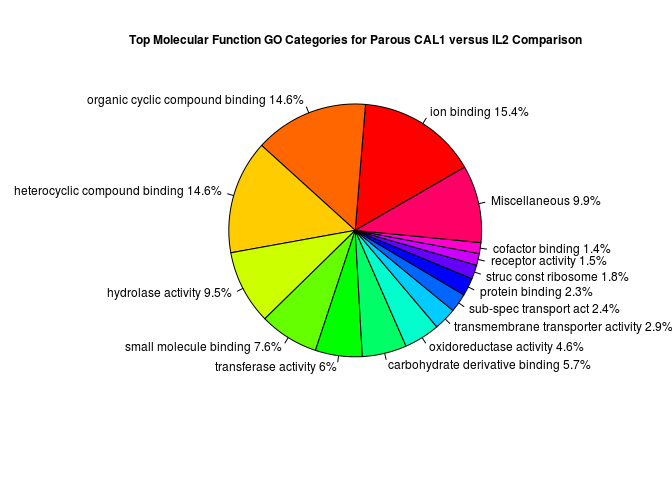
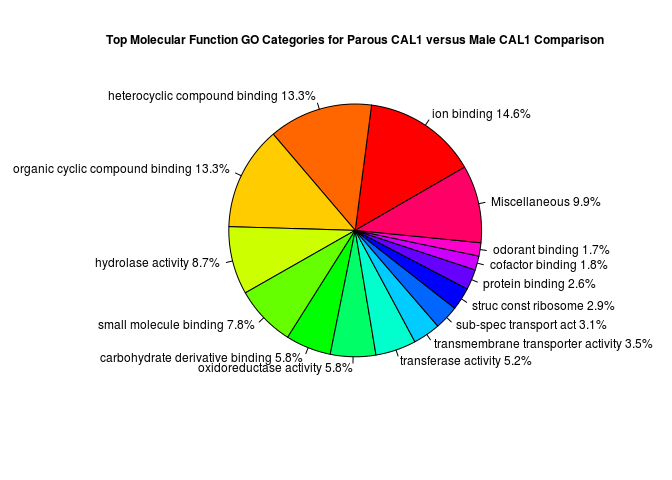
added parous_only GO analysis for comparison

diff --git a/Culex_GO_Figs_09072018.md b/Culex_GO_Figs_09072018.md
@@ -12,14 +12,15 @@ Plots for Gene Ontology Classification.
 setwd("~/Desktop/CulexRNAseq")
 
 #Getting the top 14 MF categories
+Parous_only <- read.table("./data/GO_analysis_parous_all/parous_all_GO_Dist_Level3_first3cols_MF.txt", sep = "\t", header = T)
 DGC_MF_grVpa <- read.table("./data/GO_level3Dist_data_analysis_09102018/gravidVparous/gravidVparous_GODist_level3_first3colsMF.txt", sep = "\t", header = T)
 DGC_MF_paVma <- read.table("./data/GO_level3Dist_data_analysis_09102018/parousVmales/parousVmales_GODist_level3_first3cols_MF.txt", sep = "\t", header = T)
 DGC_MF_paVpip <- read.table("./data/GO_level3Dist_data_analysis_09102018/parousVpipiens/parousVpipiens_GODist_level3_first3cols_MF.txt", sep = "\t", header = T)
 DGC_MF_grVpip <- read.table("./data/GO_level3Dist_data_analysis_09102018/gravidVpipiens/gravidVpipiens_GODist_level3_first3cols_MF.txt", sep = "\t", header = T)
 
-top_14_MF <- list(DGC_MF_grVpa[c(1:14),3], DGC_MF_paVma[c(1:14),3], DGC_MF_paVpip[c(1:14),3], DGC_MF_grVpip[c(1:14),3])
+top_14_MF <- list(Parous_only[c(1:14),3],DGC_MF_grVpa[c(1:14),3], DGC_MF_paVma[c(1:14),3], DGC_MF_paVpip[c(1:14),3], DGC_MF_grVpip[c(1:14),3])
 
-tot_data_MF <- list(DGC_MF_grVpa[c(1:nrow(DGC_MF_grVpa)),3], DGC_MF_paVma[c(1:nrow(DGC_MF_paVma)),3], DGC_MF_paVpip[c(1:nrow(DGC_MF_paVpip)),3], DGC_MF_grVpip[c(1:nrow(DGC_MF_grVpip)),3])
+tot_data_MF <- list(Parous_only[c(1:nrow(Parous_only)),3],DGC_MF_grVpa[c(1:nrow(DGC_MF_grVpa)),3], DGC_MF_paVma[c(1:nrow(DGC_MF_paVma)),3], DGC_MF_paVpip[c(1:nrow(DGC_MF_paVpip)),3], DGC_MF_grVpip[c(1:nrow(DGC_MF_grVpip)),3])
 
 
 #Getting the top 14 BP categories
@@ -51,7 +52,7 @@ tot_MF <- lapply(tot_data_MF, sum)
 inv_misc_cat_MF <- lapply(top_14_MF, sum)
 misc_cat_MF <- (unlist(tot_MF)) - (unlist(inv_misc_cat_MF))
 
-data2_MF <- as.data.frame(top_14_MF, col.names = c("DGC_MF_grVpa", "DGC_MF_paVma", "DGC_MF_paVpip", "DGC_MF_grVpip"))
+data2_MF <- as.data.frame(top_14_MF, col.names = c("Parous_only","DGC_MF_grVpa", "DGC_MF_paVma", "DGC_MF_paVpip", "DGC_MF_grVpip"))
 
 Updata_MF <- rbind(data2_MF, misc_cat_MF)
 
@@ -102,6 +103,18 @@ Rounded_Percentages_CC <- round(Percentages_CC, 1)
 ###### "substrate-specific transporter activity" = "sub-spec transport act"
 
 ``` r
+lbls <- c(as.character(Parous_only[c(1:14),2]), "Miscellaneous")
+lbls <- gsub("structural constituent of ribosome", "struc const ribosome", lbls)
+lbls <- gsub("guanyl-nucleotide exchange factor", "guan-nuc ex factor", lbls)
+lbls <- gsub("substrate-specific transporter activity", "sub-spec transport act", lbls)
+lbls <- paste(lbls, Rounded_Percentages_MF$Parous_only) # add percents to labels
+lbls <- paste(lbls,"%",sep="") # ad % to labels 
+ParO_pie_MF <- pie(Rounded_Percentages_MF$Parous_only, labels =lbls, main = "Top Molecular Function GO Categories for Parous CAL1", radius = 0.9, col = rainbow(length(lbls)), cex = 0.75, cex.main = 0.75, tck=.2, init.angle = 30)
+```
+
+![](Culex_GO_Figs_09072018_files/figure-markdown_github/MF%20GO%20Figs-1.png)
+
+``` r
 lbls <- c(as.character(DGC_MF_grVpa[c(1:14),2]), "Miscellaneous")
 lbls <- gsub("structural constituent of ribosome", "struc const ribosome", lbls)
 lbls <- gsub("guanyl-nucleotide exchange factor", "guan-nuc ex factor", lbls)
@@ -111,7 +124,7 @@ lbls <- paste(lbls,"%",sep="") # ad % to labels
 grVpa_pie_MF <- pie(Rounded_Percentages_MF$DGC_MF_grVpa, labels =lbls, main = "Top Molecular Function GO Categories for Gravid CAL1 versus Parous CAL1 Comparison", radius = 0.9, col = rainbow(length(lbls)), cex = 0.75, cex.main = 0.75, tck=.2, init.angle = 30)
 ```
 
-![](Culex_GO_Figs_09072018_files/figure-markdown_github/MF%20GO%20Figs-1.png)
+![](Culex_GO_Figs_09072018_files/figure-markdown_github/MF%20GO%20Figs-2.png)
 
 ``` r
 lbls <- c(as.character(DGC_MF_paVma[c(1:14),2]), "Miscellaneous")
@@ -123,7 +136,7 @@ lbls <- paste(lbls,"%",sep="")
 paVma_pie_MF <- pie(Rounded_Percentages_MF$DGC_MF_paVma, labels =lbls, main = "Top Molecular Function GO Categories for Parous CAL1 versus Male CAL1 Comparison", radius = 0.9, col = rainbow(length(lbls)), cex = 0.75, cex.main = 0.75, tck=.2, init.angle = 30)
 ```
 
-![](Culex_GO_Figs_09072018_files/figure-markdown_github/MF%20GO%20Figs-2.png)
+![](Culex_GO_Figs_09072018_files/figure-markdown_github/MF%20GO%20Figs-3.png)
 
 ``` r
 lbls <- c(as.character(DGC_MF_paVpip[c(1:14),2]), "Miscellaneous")
@@ -136,7 +149,7 @@ lbls <- paste(lbls,"%",sep="")
 paVpip_pie_MF <- pie(Rounded_Percentages_MF$DGC_MF_paVpip, labels =lbls, main = "Top Molecular Function GO Categories for Parous CAL1 versus IL2 Comparison", radius = 0.9, col = rainbow(length(lbls)), cex = 0.75, cex.main = 0.75, tck=.2, init.angle = 30)
 ```
 
-![](Culex_GO_Figs_09072018_files/figure-markdown_github/MF%20GO%20Figs-3.png)
+![](Culex_GO_Figs_09072018_files/figure-markdown_github/MF%20GO%20Figs-4.png)
 
 ``` r
 lbls <- c(as.character(DGC_MF_grVpip[c(1:14),2]), "Miscellaneous")
@@ -149,7 +162,7 @@ lbls <- paste(lbls,"%",sep="")
 grVpip_pie_MF <- pie(Rounded_Percentages_MF$DGC_MF_grVpip, labels =lbls, main = "Top Molecular Function GO Categories for Gravid CAL1 versus IL2 Comparison", radius = 0.9, col = rainbow(length(lbls)), cex = 0.75, cex.main = 0.75, tck=.2, init.angle = 30)
 ```
 
-![](Culex_GO_Figs_09072018_files/figure-markdown_github/MF%20GO%20Figs-4.png)
+![](Culex_GO_Figs_09072018_files/figure-markdown_github/MF%20GO%20Figs-5.png)
 
 ##### Biological Process GO Comparison Charts
 
